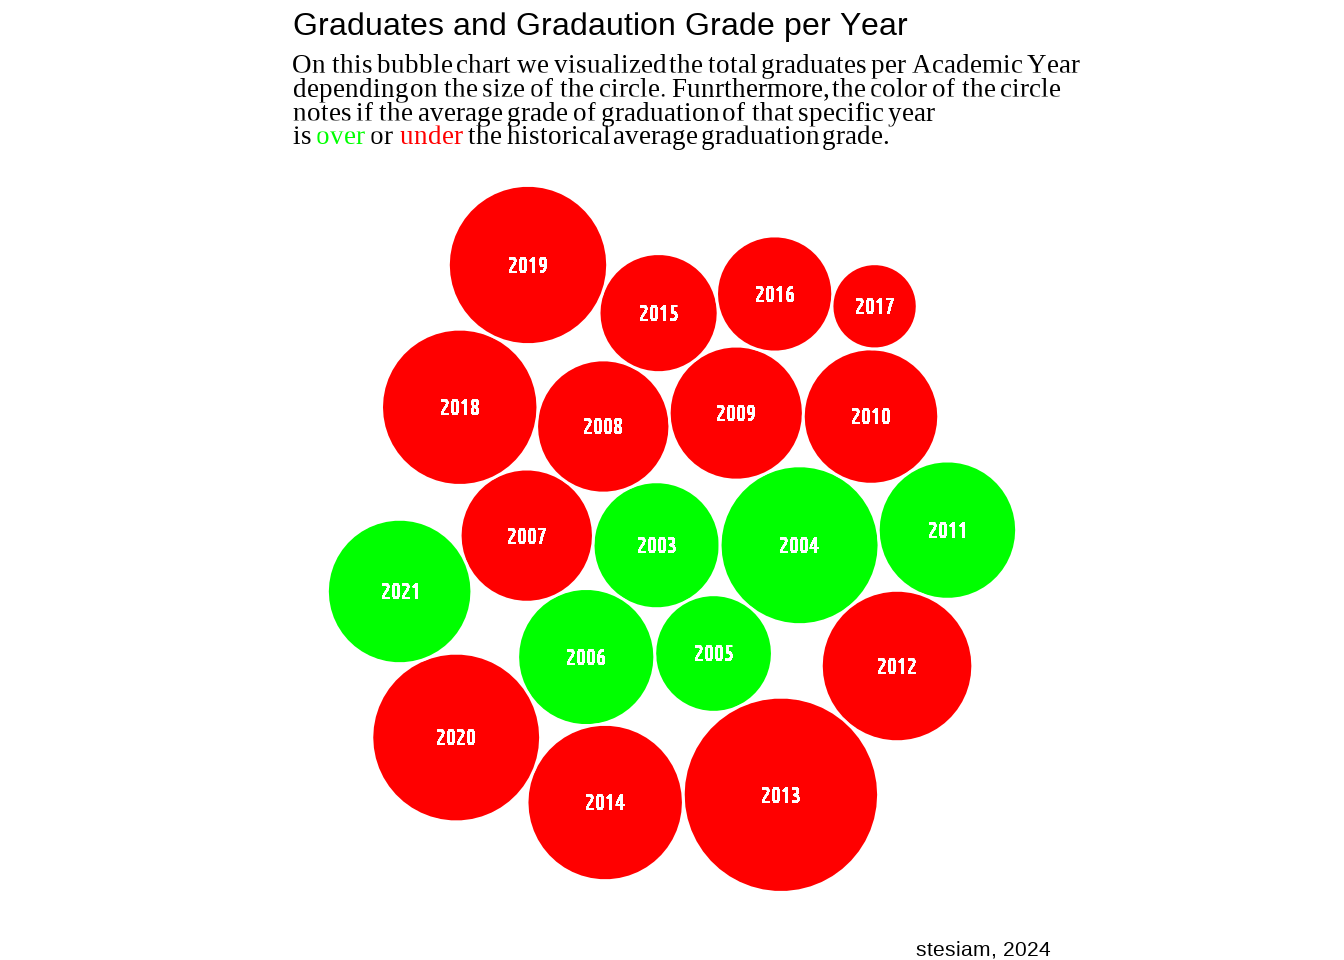
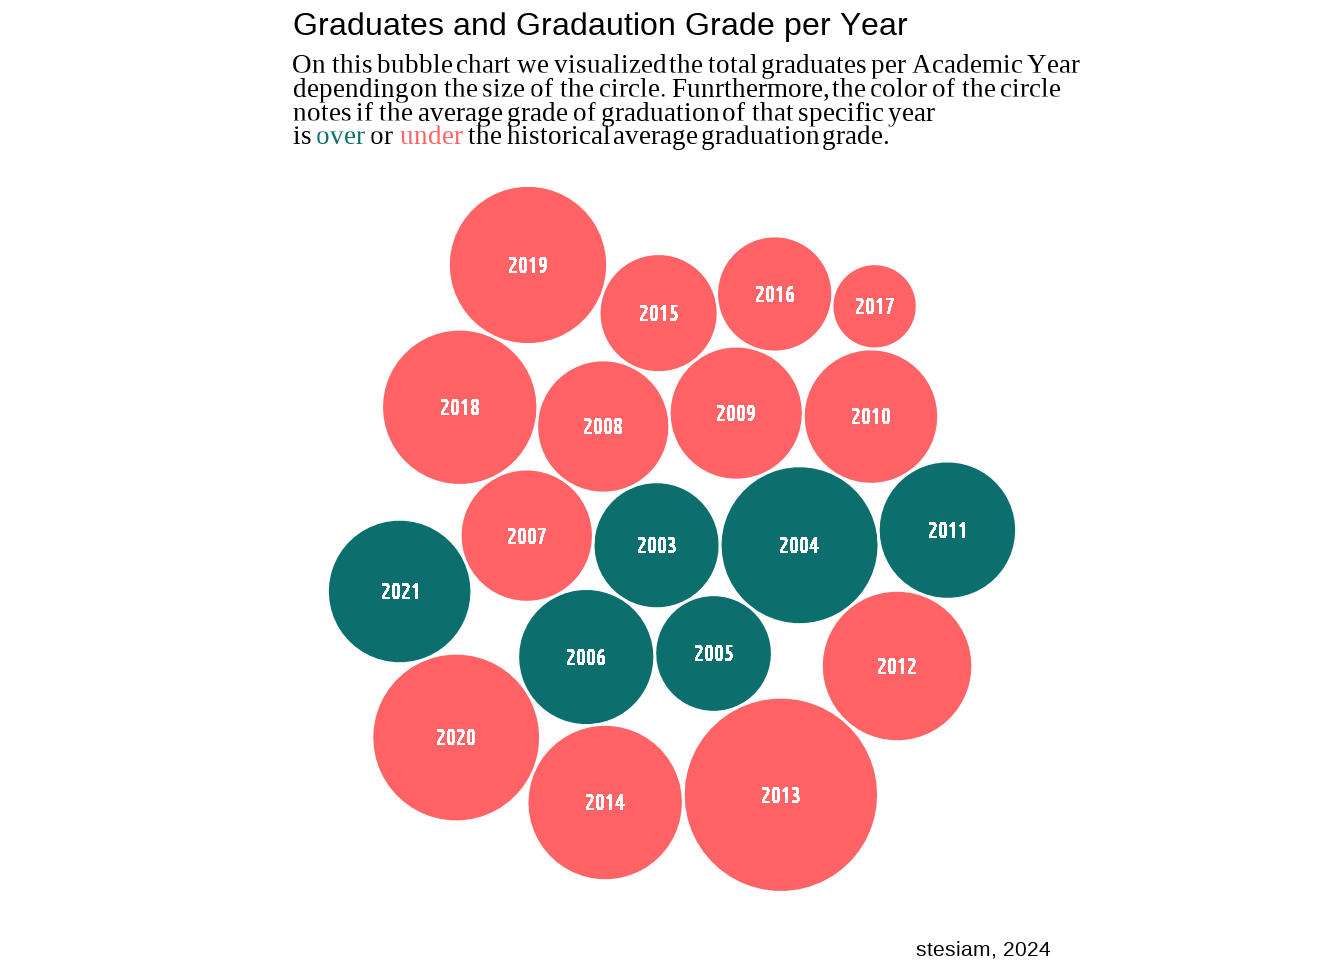
Update Shiny links

Changed region(s): [[0.2188, 0.1875, 0.7812, 0.9375], [0.3125, 0.125, 0.3438, 0.1562], [0.25, 0.125, 0.2812, 0.1562]]

diff --git a/docs/english/2023-07-23-Graduates-of-Statistics/2023-07-23-Graduates-of-Statistics.html b/docs/english/2023-07-23-Graduates-of-Statistics/2023-07-23-Graduates-of-Statistics.html
@@ -341,8 +341,8 @@ pre > code.sourceCode > span > a:first-child::before { text-decoration: underlin
 <span>    defaultPageSize <span class="op">=</span> <span class="fl">5</span></span>
 <span>  <span class="op">)</span></span></code><button title="Copy to Clipboard" class="code-copy-button"><i class="bi"></i></button></pre></div>
 <div class="cell-output-display">
-<div class="reactable html-widget html-fill-item-overflow-hidden html-fill-item" id="htmlwidget-32018f7e16c2b029d4ea" style="width:auto;height:auto;"></div>
-<script type="application/json" data-for="htmlwidget-32018f7e16c2b029d4ea">{"x":{"tag":{"name":"Reactable","attribs":{"data":{"Year":["2003-2004","2003-2004","2004-2005","2004-2005","2005-2006","2005-2006","2006-2007","2006-2007","2007-2008","2007-2008","2008-2009","2008-2009","2009-2010","2009-2010","2010-2011","2010-2011","2011-2012","2011-2012","2012-2013","2012-2013","2013-2014","2013-2014","2014-2015","2014-2015","2015-2016","2015-2016","2016-2017","2016-2017","2017-2018","2017-2018","2018-2019","2018-2019","2019-2020","2019-2020"],"name":["perc","perc100","perc","perc100","perc","perc100","perc","perc100","perc","perc100","perc","perc100","perc","perc100","perc","perc100","perc","perc100","perc","perc100","perc","perc100","perc","perc100","perc","perc100","perc","perc100","perc","perc100","perc","perc100","perc","perc100"],"Obs":[15.28,84.72,17.35,82.65,13.08,86.92,16.59,83.41,23.87,76.13,32.81,67.19,30.33,69.67,30,70,1.49,98.51,13.08,86.92,25.45,74.55,19.49,80.51,13.82,86.18,13.82,86.18,17.06,82.94,8.25,91.75,21.92,78.08]},"columns":[{"id":"Year","name":"Year","type":"character"},{"id":"name","name":"name","type":"character"},{"id":"Obs","name":"Obs","type":"numeric"}],"defaultPageSize":5,"dataKey":"d6ba351c17767cb1a57b17b789785898"},"children":[]},"class":"reactR_markup"},"evals":[],"jsHooks":[]}</script>
+<div class="reactable html-widget html-fill-item-overflow-hidden html-fill-item" id="htmlwidget-3cfb5ca486fc17e3ce02" style="width:auto;height:auto;"></div>
+<script type="application/json" data-for="htmlwidget-3cfb5ca486fc17e3ce02">{"x":{"tag":{"name":"Reactable","attribs":{"data":{"Year":["2003-2004","2003-2004","2004-2005","2004-2005","2005-2006","2005-2006","2006-2007","2006-2007","2007-2008","2007-2008","2008-2009","2008-2009","2009-2010","2009-2010","2010-2011","2010-2011","2011-2012","2011-2012","2012-2013","2012-2013","2013-2014","2013-2014","2014-2015","2014-2015","2015-2016","2015-2016","2016-2017","2016-2017","2017-2018","2017-2018","2018-2019","2018-2019","2019-2020","2019-2020"],"name":["perc","perc100","perc","perc100","perc","perc100","perc","perc100","perc","perc100","perc","perc100","perc","perc100","perc","perc100","perc","perc100","perc","perc100","perc","perc100","perc","perc100","perc","perc100","perc","perc100","perc","perc100","perc","perc100","perc","perc100"],"Obs":[15.28,84.72,17.35,82.65,13.08,86.92,16.59,83.41,23.87,76.13,32.81,67.19,30.33,69.67,30,70,1.49,98.51,13.08,86.92,25.45,74.55,19.49,80.51,13.82,86.18,13.82,86.18,17.06,82.94,8.25,91.75,21.92,78.08]},"columns":[{"id":"Year","name":"Year","type":"character"},{"id":"name","name":"name","type":"character"},{"id":"Obs","name":"Obs","type":"numeric"}],"defaultPageSize":5,"dataKey":"d6ba351c17767cb1a57b17b789785898"},"children":[]},"class":"reactR_markup"},"evals":[],"jsHooks":[]}</script>
 </div>
 </div>
 <p>I would like to examine the percentage of students who have been admitted by the other 3 ways over the years.</p>
@@ -526,8 +526,8 @@ Caused by warning:
 <span>    defaultPageSize <span class="op">=</span> <span class="fl">5</span></span>
 <span>  <span class="op">)</span></span></code><button title="Copy to Clipboard" class="code-copy-button"><i class="bi"></i></button></pre></div>
 <div class="cell-output-display">
-<div class="reactable html-widget html-fill-item-overflow-hidden html-fill-item" id="htmlwidget-a13c8ac978b541d7160a" style="width:auto;height:auto;"></div>
-<script type="application/json" data-for="htmlwidget-a13c8ac978b541d7160a">{"x":{"tag":{"name":"Reactable","attribs":{"data":{"AcademicYear":["2003-2004","2004-2005","2005-2006","2006-2007","2007-2008","2008-2009","2009-2010","2010-2011","2011-2012","2012-2013","2013-2014","2014-2015","2015-2016","2016-2017","2017-2018","2018-2019","2019-2020","2020-2021","2021-2022","2022-2023"],"BSc":[2135,2128,2225,2255,2360,2411,2429,2629,2528,2631,2707,2656,2742,2842,2953,3021,3091,3200,3159,3177],"MSc (AppliedStat)":[68,67,89,57,65,50,54,55,56,52,56,52,85,42,47,43,53,66,102,111],"MSc (Actuar)":["NA","NA","NA","NA",38,66,81,86,88,87,89,110,47,74,85,69,68,66,93,85],"PhD":[11,16,20,24,24,20,13,13,16,15,16,14,14,18,21,21,19,19,18,15],"pct":[0.52,0.75,0.9,1.06,1.02,0.83,0.54,0.49,0.63,0.57,0.59,0.53,0.51,0.63,0.71,0.7,0.61,0.59,0.57,0.47]},"columns":[{"id":"AcademicYear","name":"AcademicYear","type":"character"},{"id":"BSc","name":"BSc","type":"numeric"},{"id":"MSc (AppliedStat)","name":"MSc (AppliedStat)","type":"numeric"},{"id":"MSc (Actuar)","name":"MSc (Actuar)","type":"numeric"},{"id":"PhD","name":"PhD","type":"numeric"},{"id":"pct","name":"pct","type":"numeric"}],"defaultPageSize":5,"dataKey":"9e1a659e4b3bbf409916a76f20fe3050"},"children":[]},"class":"reactR_markup"},"evals":[],"jsHooks":[]}</script>
+<div class="reactable html-widget html-fill-item-overflow-hidden html-fill-item" id="htmlwidget-f67ebe2caafafcd09064" style="width:auto;height:auto;"></div>
+<script type="application/json" data-for="htmlwidget-f67ebe2caafafcd09064">{"x":{"tag":{"name":"Reactable","attribs":{"data":{"AcademicYear":["2003-2004","2004-2005","2005-2006","2006-2007","2007-2008","2008-2009","2009-2010","2010-2011","2011-2012","2012-2013","2013-2014","2014-2015","2015-2016","2016-2017","2017-2018","2018-2019","2019-2020","2020-2021","2021-2022","2022-2023"],"BSc":[2135,2128,2225,2255,2360,2411,2429,2629,2528,2631,2707,2656,2742,2842,2953,3021,3091,3200,3159,3177],"MSc (AppliedStat)":[68,67,89,57,65,50,54,55,56,52,56,52,85,42,47,43,53,66,102,111],"MSc (Actuar)":["NA","NA","NA","NA",38,66,81,86,88,87,89,110,47,74,85,69,68,66,93,85],"PhD":[11,16,20,24,24,20,13,13,16,15,16,14,14,18,21,21,19,19,18,15],"pct":[0.52,0.75,0.9,1.06,1.02,0.83,0.54,0.49,0.63,0.57,0.59,0.53,0.51,0.63,0.71,0.7,0.61,0.59,0.57,0.47]},"columns":[{"id":"AcademicYear","name":"AcademicYear","type":"character"},{"id":"BSc","name":"BSc","type":"numeric"},{"id":"MSc (AppliedStat)","name":"MSc (AppliedStat)","type":"numeric"},{"id":"MSc (Actuar)","name":"MSc (Actuar)","type":"numeric"},{"id":"PhD","name":"PhD","type":"numeric"},{"id":"pct","name":"pct","type":"numeric"}],"defaultPageSize":5,"dataKey":"9e1a659e4b3bbf409916a76f20fe3050"},"children":[]},"class":"reactR_markup"},"evals":[],"jsHooks":[]}</script>
 </div>
 </div>
 <div class="cell">
@@ -711,7 +711,7 @@ Caused by warning:
 <span>               colour <span class="op">=</span> <span class="st">"white"</span>, </span>
 <span>               <span class="co"># alpha = 0.7</span></span>
 <span>               <span class="op">)</span> <span class="op">+</span></span>
-<span>  <span class="fu"><a href="https://ggplot2.tidyverse.org/reference/scale_manual.html">scale_fill_manual</a></span><span class="op">(</span>values <span class="op">=</span> <span class="fu"><a href="https://rdrr.io/r/base/c.html">c</a></span><span class="op">(</span><span class="st">"under"</span><span class="op">=</span><span class="st">"red"</span>,<span class="st">"over"</span> <span class="op">=</span> <span class="st">"green"</span><span class="op">)</span><span class="op">)</span><span class="op">+</span></span>
+<span>  <span class="fu"><a href="https://ggplot2.tidyverse.org/reference/scale_manual.html">scale_fill_manual</a></span><span class="op">(</span>values <span class="op">=</span> <span class="fu"><a href="https://rdrr.io/r/base/c.html">c</a></span><span class="op">(</span><span class="st">"under"</span><span class="op">=</span><span class="st">"#ff6366"</span>,<span class="st">"over"</span> <span class="op">=</span> <span class="st">"#0D6E6E"</span><span class="op">)</span><span class="op">)</span><span class="op">+</span></span>
 <span>  <span class="fu"><a href="https://ggplot2.tidyverse.org/reference/geom_text.html">geom_text</a></span><span class="op">(</span><span class="fu"><a href="https://ggplot2.tidyverse.org/reference/aes.html">aes</a></span><span class="op">(</span><span class="va">xcirc</span>, </span>
 <span>                <span class="va">ycirc</span>, </span>
 <span>                size <span class="op">=</span> <span class="va">Graduates</span>,</span>
@@ -721,7 +721,7 @@ Caused by warning:
 <span>            fontface <span class="op">=</span> <span class="st">'bold'</span>,</span>
 <span>            color <span class="op">=</span> <span class="st">'white'</span><span class="op">)</span> <span class="op">+</span></span>
 <span>  <span class="fu"><a href="https://ggplot2.tidyverse.org/reference/labs.html">labs</a></span><span class="op">(</span>title <span class="op">=</span> <span class="st">"Graduates and Gradaution Grade per Year"</span>,</span>
-<span>       subtitle <span class="op">=</span> <span class="st">"On this bubble chart we visualized the total graduates per Academic Year &lt;br&gt; depending on the size of the circle. Funrthermore, the color of the circle &lt;br&gt; notes if the average grade of graduation of that specific year &lt;br&gt; is &lt;span style = 'color: green'&gt;over&lt;/span&gt; or &lt;span style = 'color: red'&gt;under&lt;/span&gt; the historical average graduation grade."</span>,</span>
+<span>       subtitle <span class="op">=</span> <span class="st">"On this bubble chart we visualized the total graduates per Academic Year &lt;br&gt; depending on the size of the circle. Funrthermore, the color of the circle &lt;br&gt; notes if the average grade of graduation of that specific year &lt;br&gt; is &lt;span style = 'color: #0D6E6E'&gt;over&lt;/span&gt; or &lt;span style = 'color: #ff6366'&gt;under&lt;/span&gt; the historical average graduation grade."</span>,</span>
 <span>       x <span class="op">=</span> <span class="cn">NULL</span>,</span>
 <span>       y <span class="op">=</span> <span class="cn">NULL</span>,</span>
 <span>       caption <span class="op">=</span> <span class="st">"stesiam, 2024"</span><span class="op">)</span> <span class="op">+</span></span>
@@ -1418,7 +1418,7 @@ window.document.addEventListener("DOMContentLoaded", function (event) {
   }
 });
 </script><script src="https://giscus.app/client.js" data-repo="stesiam/stesiam.github.io" data-repo-id="R_kgDOHuiNDg" data-category="Comments" data-category-id="DIC_kwDOHuiNDs4CQeAf" data-mapping="title" data-reactions-enabled="1" data-emit-metadata="0" data-input-position="top" data-theme="light" data-lang="en" crossorigin="anonymous" async="">
-</script><input type="hidden" id="giscus-base-theme" value="light"><input type="hidden" id="giscus-alt-theme" value="cobalt">
+</script><input type="hidden" id="giscus-base-theme" value="light"><input type="hidden" id="giscus-alt-theme" value="darkly">
 </div> <!-- /content -->
 <footer class="footer"><div class="nav-footer">
     <div class="nav-footer-left">

diff --git a/docs/shiny.html b/docs/shiny.html
@@ -202,13 +202,13 @@ ul.task-list li input[type="checkbox"] {
 </div>
 <div class="card">
     <div class="card-body">
-      <h5 class="card-title anchored">Greek Elections Shiny</h5>
+      <h5 class="card-title anchored">Greek Elections App</h5>
       <p class="card-text">A Shiny App to calculate parliamentary seats for each party (Greek parliament).</p>
     </div>
     <div class="sh-card-footer text-center">
-     <a class="btn btn-outline-dark" href="https://stesiam.shinyapps.io/GreekElectionsShiny/" role="button">
+     <a class="btn btn-outline-dark" href="https://stesiam.shinyapps.io/Greek-Elections-App/" role="button">
      <i class="fa-solid fa-globe"></i></a>
-     <a class="btn btn-outline-dark" href="https://github.com/stesiam/GreekElectionsShiny" role="button"><i class="fa-brands fa-github"></i></a>
+     <a class="btn btn-outline-dark" href="https://github.com/stesiam/Greek-Elections-App" role="button"><i class="fa-brands fa-github"></i></a>
      <a class="btn btn-outline-dark" href="https://hub.docker.com/r/stesiam/greek-elections-shiny" role="button"><i class="fa-solid fa-cube"></i></a>
     </div>
 </div>

diff --git a/docs/english.html b/docs/english.html
@@ -281,7 +281,7 @@ window.Quarto = {
     </div>
 </div>
 <div class="list quarto-listing-default">
-<div class="quarto-post image-right" data-index="0" data-categories="R,EDA,PDF,tabulizer" data-listing-date-sort="1690059600000" data-listing-file-modified-sort="1709741793430" data-listing-date-modified-sort="NaN" data-listing-reading-time-sort="18" data-listing-word-count-sort="3543">
+<div class="quarto-post image-right" data-index="0" data-categories="R,EDA,PDF,tabulizer" data-listing-date-sort="1690059600000" data-listing-file-modified-sort="1712661981365" data-listing-date-modified-sort="NaN" data-listing-reading-time-sort="18" data-listing-word-count-sort="3543">
 <div class="thumbnail">
 <p><a href="./english/2023-07-23-Graduates-of-Statistics/2023-07-23-Graduates-of-Statistics.html" class="no-external"></a></p><a href="./english/2023-07-23-Graduates-of-Statistics/2023-07-23-Graduates-of-Statistics.html" class="no-external">
 <p><img src="./english/2023-07-23-Graduates-of-Statistics/graduation-cap.jpg" class="thumbnail-image" alt="graduation cap"></p>

diff --git a/docs/posts.html b/docs/posts.html
@@ -281,7 +281,7 @@ window.Quarto = {
     </div>
 </div>
 <div class="list quarto-listing-default">
-<div class="quarto-post image-right" data-index="0" data-categories="R,EDA,PDF,tabulizer" data-listing-date-sort="1690059600000" data-listing-file-modified-sort="1709741793430" data-listing-date-modified-sort="NaN" data-listing-reading-time-sort="18" data-listing-word-count-sort="3543">
+<div class="quarto-post image-right" data-index="0" data-categories="R,EDA,PDF,tabulizer" data-listing-date-sort="1690059600000" data-listing-file-modified-sort="1712661981365" data-listing-date-modified-sort="NaN" data-listing-reading-time-sort="18" data-listing-word-count-sort="3543">
 <div class="thumbnail">
 <p><a href="./english/2023-07-23-Graduates-of-Statistics/2023-07-23-Graduates-of-Statistics.html" class="no-external"></a></p><a href="./english/2023-07-23-Graduates-of-Statistics/2023-07-23-Graduates-of-Statistics.html" class="no-external">
 <p><img src="./english/2023-07-23-Graduates-of-Statistics/graduation-cap.jpg" class="thumbnail-image" alt="graduation cap"></p>

diff --git a/docs/gallery.html b/docs/gallery.html
@@ -1081,7 +1081,7 @@ window.document.addEventListener("DOMContentLoaded", function (event) {
 </div>
   </div>
 </footer>
-<script>var lightboxQuarto = GLightbox({"selector":".lightbox","closeEffect":"zoom","descPosition":"bottom","openEffect":"zoom","loop":false});
+<script>var lightboxQuarto = GLightbox({"selector":".lightbox","closeEffect":"zoom","descPosition":"bottom","loop":false,"openEffect":"zoom"});
 window.onload = () => {
   lightboxQuarto.on('slide_before_load', (data) => {
     const { slideIndex, slideNode, slideConfig, player, trigger } = data;
